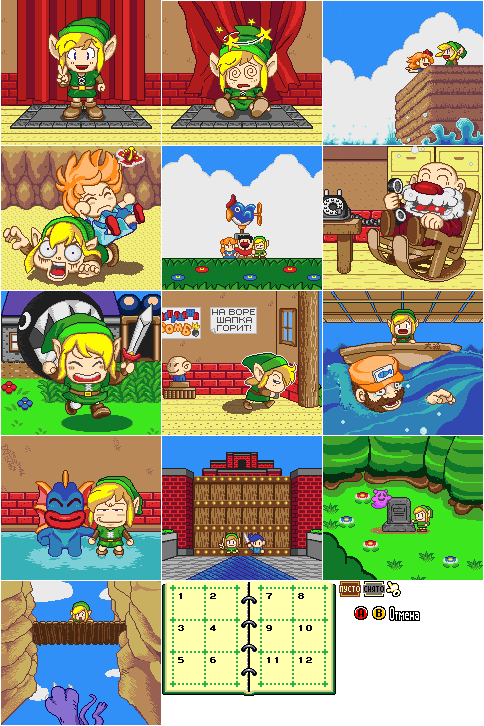
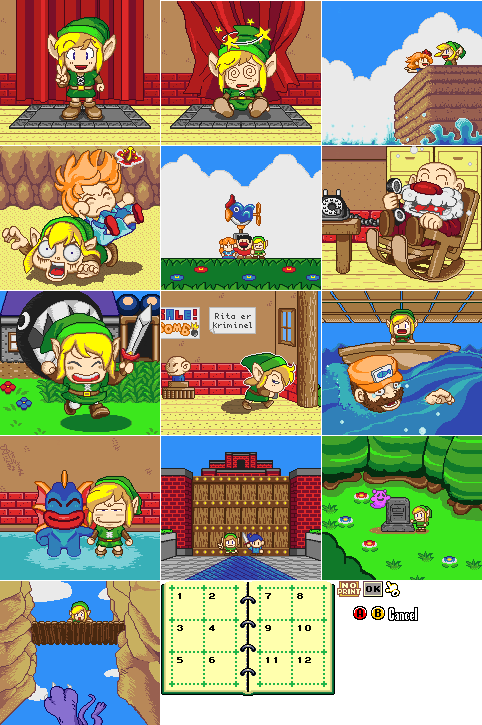
Dan fix

diff --git a/InGame/Pages/NewGamePage.cs b/InGame/Pages/NewGamePage.cs
@@ -28,18 +28,18 @@ namespace ProjectZ.InGame.Pages
 
         private char[,] _charactersUpper = new char[,]
         {
-            { 'А', 'Б', 'В', 'Г', 'Д', 'Е', 'Ё', 'Ж', 'З', '-' },
-            { 'И', 'Й', 'К', 'Л', 'М', 'Н', 'О', 'П', 'Р', '-' },
-            { 'С', 'Т', 'У', 'Ф', 'Х', 'Ц', 'Ч', 'Ш', 'Щ', '-' },
-            { CapsLockCharacter, 'Ъ', 'Ы', 'Ь', 'Э', 'Ю', 'Я', '-', '-', BackCharacter }
+            { 'Q', 'W', 'E', 'R', 'T', 'Y', 'U', 'I', 'O', 'P' },
+            { 'A', 'S', 'D', 'F', 'G', 'H', 'J', 'K', 'L', '-' },
+            { 'Z', 'X', 'C', 'V', 'B', 'N', 'M', 'Æ', 'Ø', 'Å' },
+            { CapsLockCharacter, '!', '#', '%', '&', '@', ',', '.', ' ', BackCharacter }
         };
 
         private char[,] _charactersLower = new char[,]
         {
-            { 'а', 'б', 'в', 'г', 'д', 'е', 'ё', 'ж', 'з', '-' },
-            { 'и', 'й', 'к', 'л', 'м', 'н', 'о', 'п', 'р', '-' },
-            { 'с', 'т', 'у', 'ф', 'х', 'ц', 'ч', 'ш', 'щ', '-' },
-            { CapsLockCharacter, 'ъ', 'ы', 'ь', 'э', 'ю', 'я', '-', '-', BackCharacter }
+            { 'q', 'w', 'e', 'r', 't', 'y', 'u', 'i', 'o', 'p' },
+            { 'a', 's', 'd', 'f', 'g', 'h', 'j', 'k', 'l', '-' },
+            { 'z', 'x', 'c', 'v', 'b', 'n', 'm', 'æ', 'ø', 'å' },
+            { CapsLockCharacter, '!', '#', '%', '&', '@', ',', '.', ' ', BackCharacter }
         };
 
         public NewGamePage(int width, int height)
@@ -112,7 +112,7 @@ namespace ProjectZ.InGame.Pages
             _selectedSaveSlot = (int)intent["SelectedSaveSlot"];
 
             // reset the name of the save slot
-            _strNameInput = "Линк";
+            _strNameInput = "Link";
             _labelNameInput.SetText(_strNameInput + " ");
 
             _upperMode = true;

diff --git a/InGame/Screens/MenuScreen.cs b/InGame/Screens/MenuScreen.cs
@@ -113,7 +113,7 @@ namespace ProjectZ.InGame.Screens
                     backStr = ControlHandler.ButtonDictionary[CButtons.B].Keys[0].ToString();
                 if (!ControlHandler.LastKeyboardDown && ControlHandler.ButtonDictionary[CButtons.B].Buttons.Length > 0)
                     backStr = ControlHandler.ButtonDictionary[CButtons.B].Buttons[0].ToString();
-                var backHelp = backStr + " Назад";
+                var backHelp = backStr + " Tilbage";
 
                 var backTextSize = Resources.GameFont.MeasureString(backHelp);
                 spriteBatch.DrawString(Resources.GameFont, backHelp,
@@ -126,7 +126,7 @@ namespace ProjectZ.InGame.Screens
                     selectStr = ControlHandler.ButtonDictionary[CButtons.A].Keys[0].ToString();
                 if (!ControlHandler.LastKeyboardDown && ControlHandler.ButtonDictionary[CButtons.A].Buttons.Length > 0)
                     selectStr = ControlHandler.ButtonDictionary[CButtons.A].Buttons[0].ToString();
-                var inputHelper = selectStr + " Выбор";
+                var inputHelper = selectStr + " Vælg";
 
                 var selectTextSize = Resources.GameFont.MeasureString(inputHelper);
                 spriteBatch.DrawString(Resources.GameFont, inputHelper,

diff --git a/InGame/Things/Language.cs b/InGame/Things/Language.cs
@@ -18,8 +18,8 @@ namespace ProjectZ.InGame.Things
             // go through the .lng files and fill the _languageStrings dictionary array
             var files = Directory.GetFiles(Values.PathLanguageFolder);
             var languageStrings = new Dictionary<string, Dictionary<string, string>>();
-            // the default (first) entry is russian
-            languageStrings.Add("rus", new Dictionary<string, string>());
+            // the default (first) entry is danish
+            languageStrings.Add("dan", new Dictionary<string, string>());
 
             for (var i = 0; i < files.Length; i++)
             {
@@ -30,10 +30,10 @@ namespace ProjectZ.InGame.Things
                     var split = fileName.Split('_');
                     var lngName = "";
 
-                    // rus.lng
+                    // dan.lng
                     if (split.Length == 1)
                         lngName = split[0];
-                    // dialog_rus.lng
+                    // dialog_dan.lng
                     if (split.Length == 2)
                         lngName = split[1];
 

diff --git a/InGame/Pages/GraphicSettingsPage.cs b/InGame/Pages/GraphicSettingsPage.cs
@@ -33,7 +33,7 @@ namespace ProjectZ.InGame.Pages
                     GameSettings.GameScale = number;
                     Game1.ScaleSettingChanged = true;
                 })
-            { SetString = number => GameSettings.GameScale == 11 ? "Авто" : " x" + (number < 1 ? "1/" + (2 - number) : number.ToString()) };
+            { SetString = number => GameSettings.GameScale == 11 ? "Auto" : " x" + (number < 1 ? "1/" + (2 - number) : number.ToString()) };
             contentLayout.AddElement(_gameScaleSlider);
 
             //contentLayout.AddElement(_uiScaleSlider = new InterfaceSlider(Resources.GameFont, "settings_graphics_ui_scale",

diff --git a/InGame/GameObjects/ObjLink.cs b/InGame/GameObjects/ObjLink.cs
@@ -3635,7 +3635,7 @@ namespace ProjectZ.InGame.GameObjects
             // used in ObjStoreItem to not return the item to the shelf
             Game1.GameManager.SaveManager.SetString("result", "0");
 
-            Game1.GameManager.SaveName = "Жулик";
+            Game1.GameManager.SaveName = "Tyv";
 
             // add the item to the inventory
             var strItem = Game1.GameManager.SaveManager.GetString("itemShopItem");
